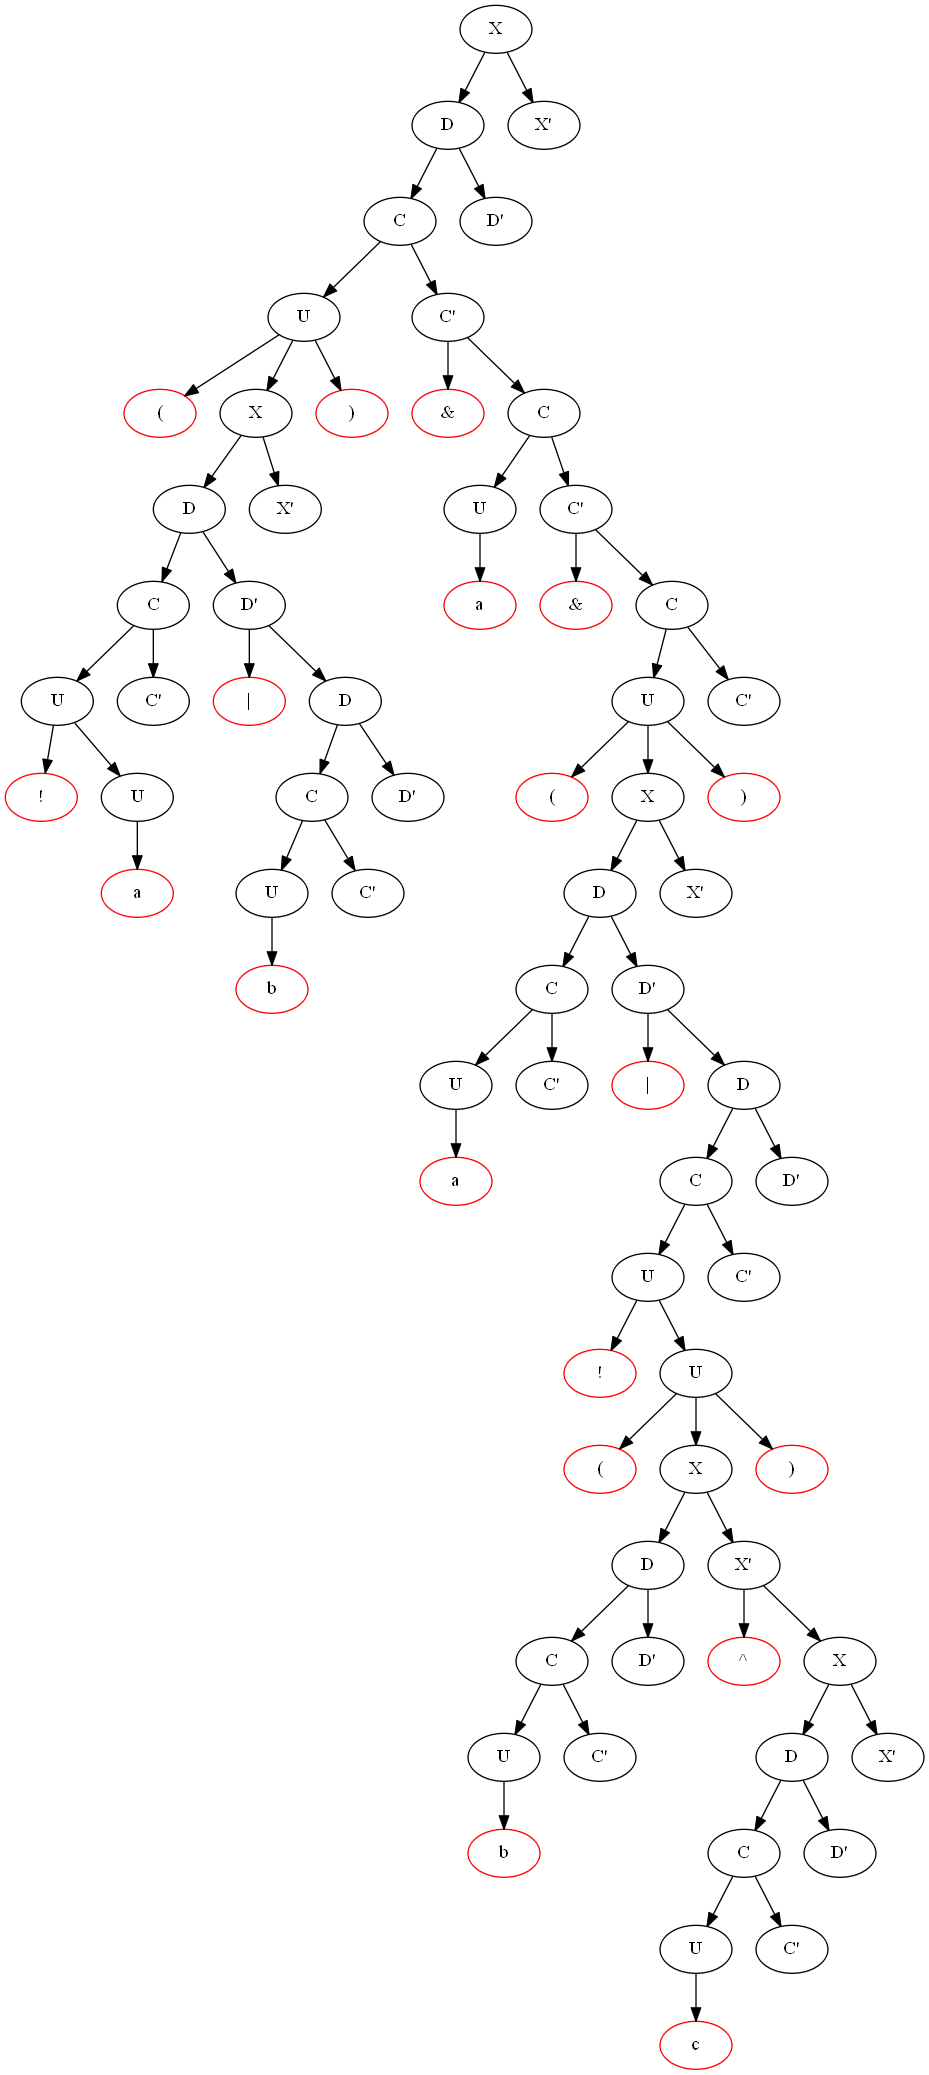
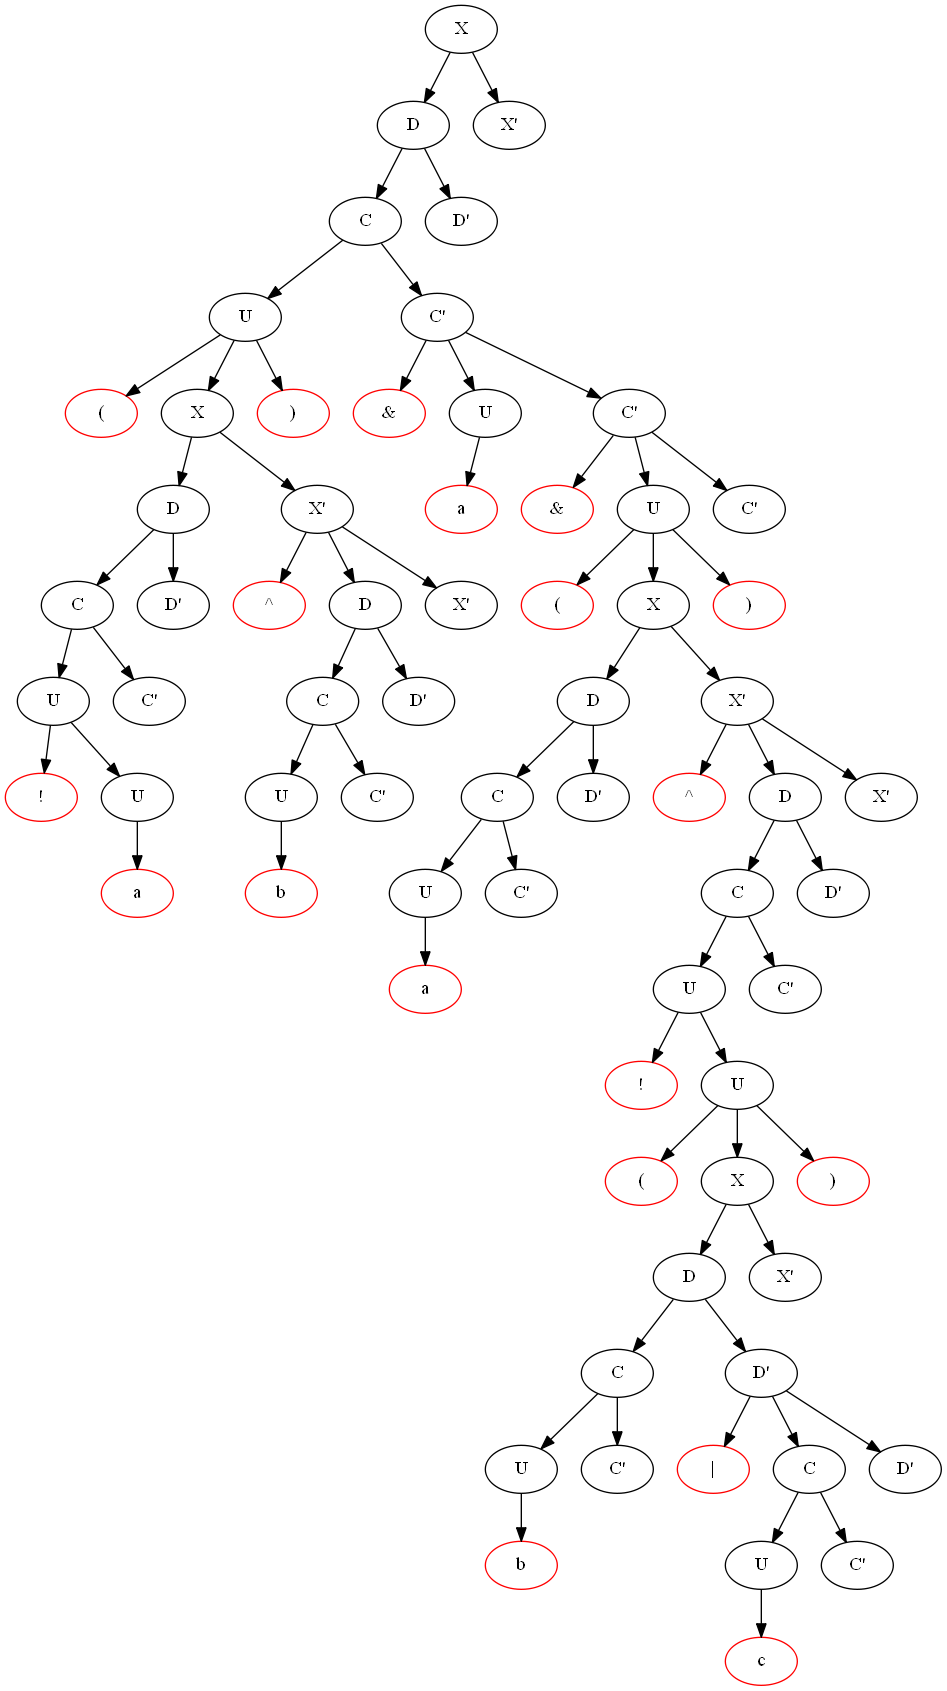
fix grammar

Changed region(s): [[0.0312, 0.0, 0.8741, 0.5843], [0.4995, 0.492, 0.9989, 1.0]]

diff --git a/recursive-parser/src/main/java/ru/breakchir/Parser.java b/recursive-parser/src/main/java/ru/breakchir/Parser.java
@@ -23,7 +23,7 @@ public class Parser {
 
     private Tree XPrime() throws ParseException {
         switch (lex.getCurToken()) {
-            case XOR:
+            case OR:
                 lex.nextToken();
                 Tree subD = D();
                 Tree subXP = XPrime();
@@ -51,12 +51,12 @@ public class Parser {
 
     private Tree DPrime() throws ParseException {
         switch (lex.getCurToken()) {
-            case OR:
+            case XOR:
                 lex.nextToken();
                 Tree subC = C();
                 Tree subDP = DPrime();
                 return new Tree("D'", new Tree("|"), subC, subDP);
-            case XOR:
+            case OR:
             case RPAREN:
             case END:
                 return new Tree("D'");

diff --git a/recursive-parser/src/test/java/ru/breakchir/Tester.java b/recursive-parser/src/test/java/ru/breakchir/Tester.java
@@ -12,7 +12,7 @@ public class Tester {
 
     @Test
     public void testSample() throws IOException, InterruptedException, ParseException {
-        String test = "a";
+        String test = "(!a | b) & a & (a | !(b ^ c))";
         runDrawTest(test, "Sample");
     }
 

diff --git a/recursive-parser/Grammar.md b/recursive-parser/Grammar.md
@@ -11,9 +11,9 @@
 
 ## КС грамматика
 
-- X -> X ^ D
+- X -> X | D
 - X -> D
-- D -> D | C
+- D -> D ^ C
 - D -> C
 - C -> C & U
 - C -> U
@@ -23,18 +23,18 @@
 
 Нетерминал | Описание
 --- | ---
-*X* | XOR нескольких дизъюнкций
-*D* | Дизъюнкция нескольких конъюнкций
+*X* | Дизъюнкция нескольких XOR
+*D* | XOR нескольких конъюнкций
 *C* | Конъюнкция нескольких унарных выражений
 *U* | Унарное выражение (отрицание унарного выражения, логическая формула в скобках, переменная) 
 
 ### Устранение левой рекурсии и правого ветвления:
 
 - X  -> DX'
-- X' -> ^DX'
+- X' -> |DX'
 - X' -> *eps*
 - D  -> CD'
-- D' -> |CD'
+- D' -> ^CD'
 - D' -> *eps*
 - C  -> UC'
 - C' -> &UC'
@@ -45,10 +45,10 @@
 
 Нетерминал | Описание
 --- | ---
-*X* | XOR нескольких дизъюнкций
-*X'* | Продолжение XOR нескольких дизъюнкций
-*D* | Дизъюнкция нескольких конъюнкций
-*D'* | Продолжение дизъюнкции нескольких конъюнкций
+*X* | Дизъюнкция нескольких XOR
+*X'* | Продолжение дизъюнкций нескольких XOR
+*D* | XOR нескольких конъюнкций
+*D'* | Продолжение XOR нескольких конъюнкций
 *C* | Конъюнкция нескольких унарных выражений
 *C'* | Продолжение конъюнкций нескольких унарных выражений
 *U* | Унарное выражение (отрицание унарного выражения, логическая формула в скобках, переменная)
